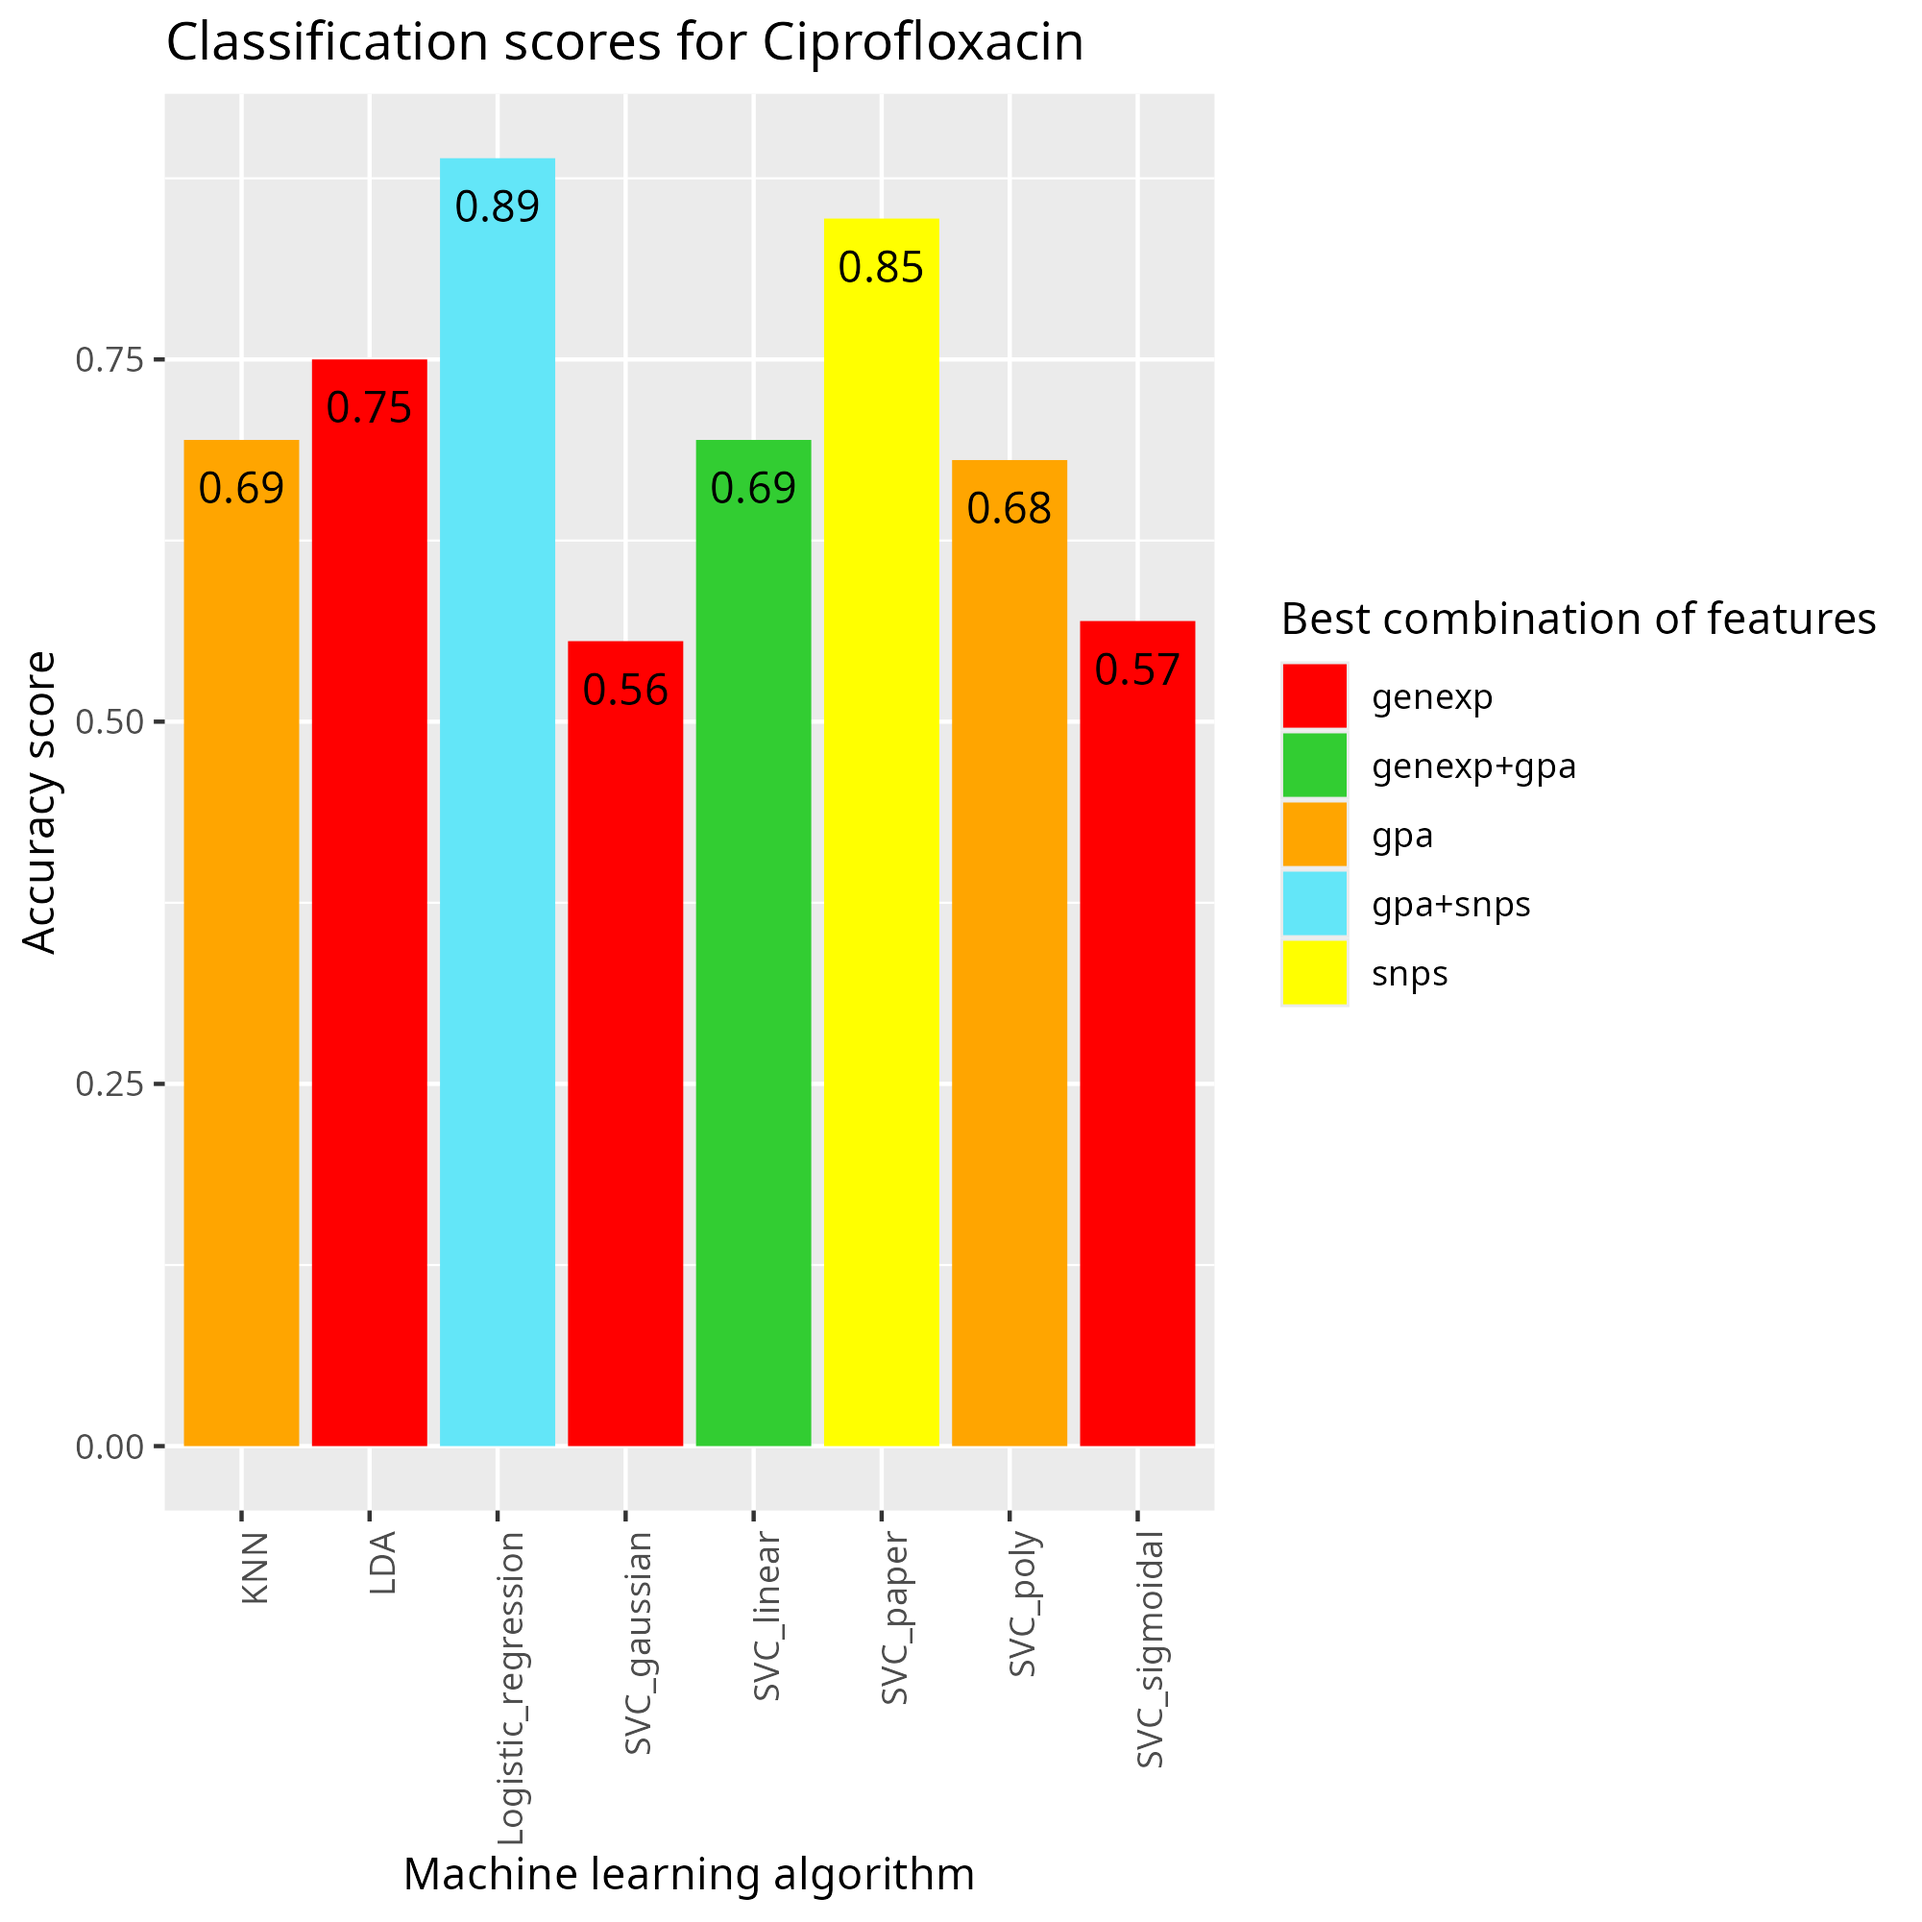
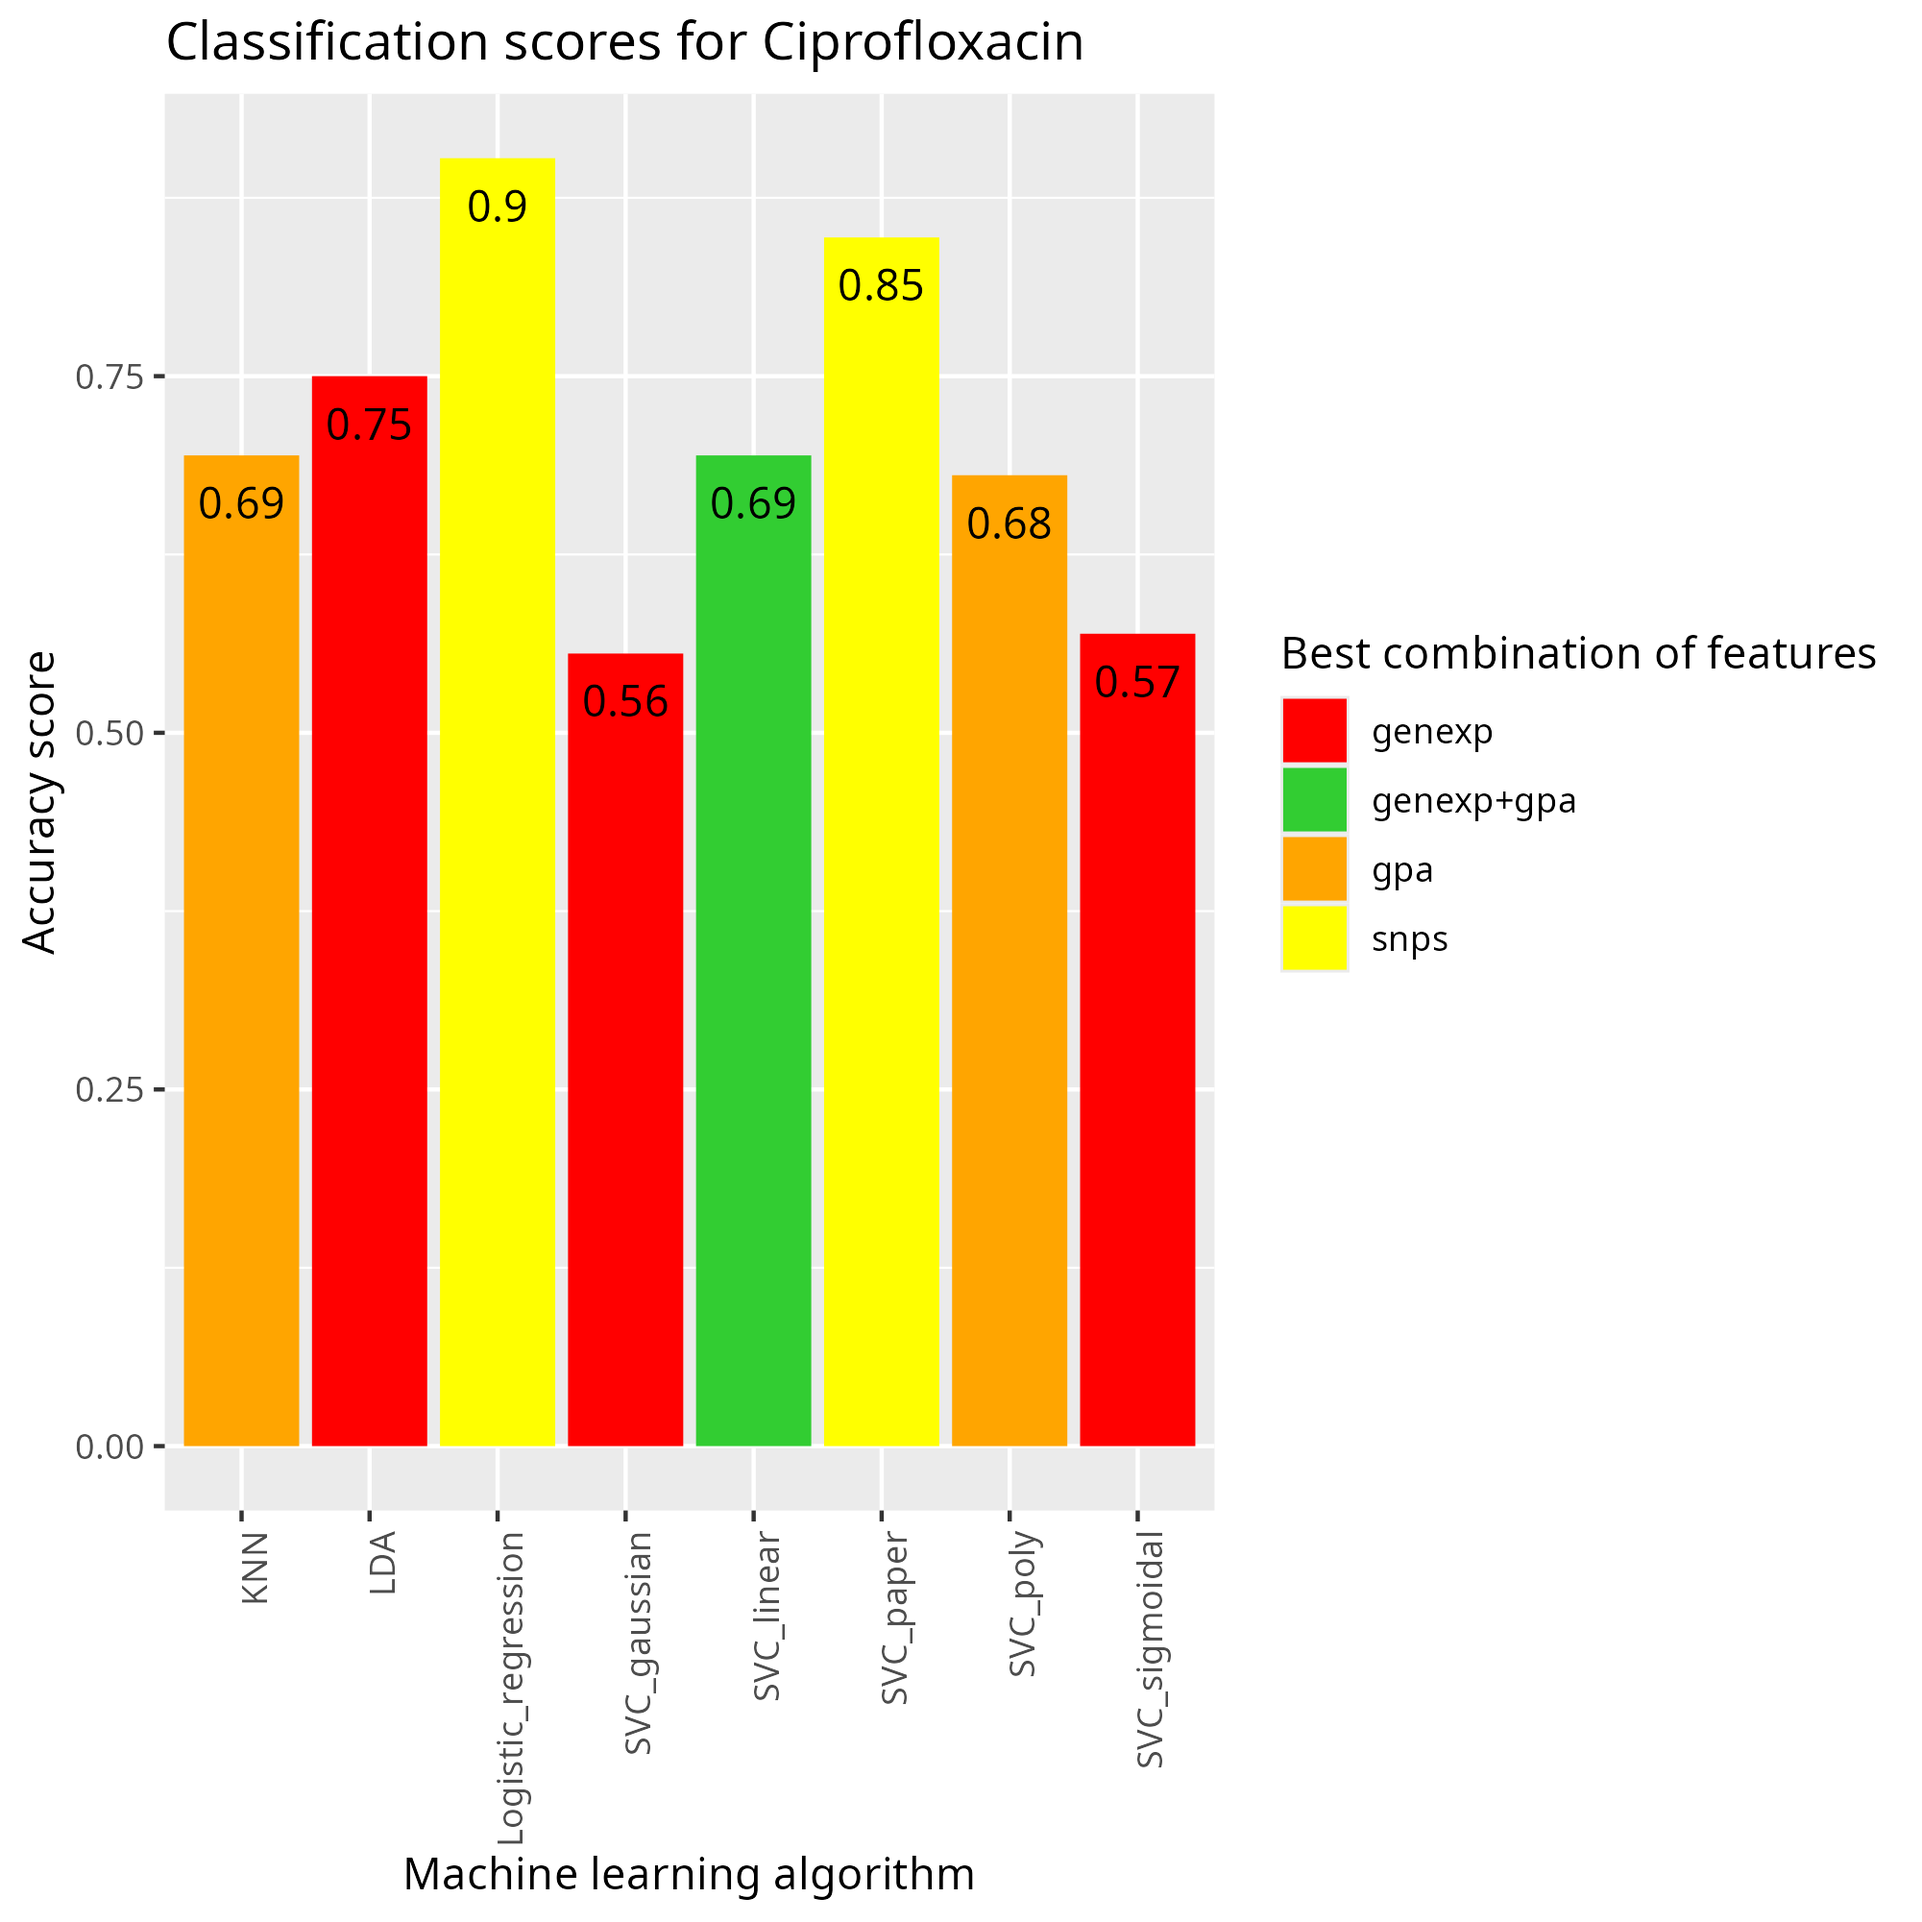
Corrected logistic regression and figure 4

diff --git a/pipelines/ml_algorithms.py b/pipelines/ml_algorithms.py
@@ -276,24 +276,24 @@ def get_logistic_regression_coefficients():
 
 
 if(__name__ == '__main__'):
-    #cross_validate_model(model_name = 'log_reg', C = 0.1, l1_ratio = 1.0, tol = 1e-6, solver = 'liblinear')
+    #cross_validate_model(model_name = 'log_reg', C = 0.1, l1_ratio = 1.0, tol = 1e-6, solver = 'liblinear', class_weight = 'balanced')
     #l1 ratio = 1 is the Lasso regularization
     #cross_validate_model(model_name = 'lda', solver = 'svd')
-    #cross_validate_model(model_name = 'knn', n_neighbors = 5, weights = 'distance')
+    cross_validate_model(model_name = 'knn', n_neighbors = 5)
     #cross_validate_model(model_name = 'svc', C = 0.1, kernel = 'linear', tol = 1e-6, class_weight = 'balanced')
     #cross_validate_model(model_name = 'svc', C = 0.1, kernel = 'poly', tol = 1e-6, gamma = 1., degree = 3, class_weight = 'balanced')
     #cross_validate_model(model_name = 'svm_paper', penalty = 'l1', loss = 'squared_hinge', max_iter = 1000000, tol = 0.000001,
      #                  class_weight = "balanced", dual = False, C = 0.1)
     #cross_validate_model(model_name = 'svc', C = 0.1, kernel = 'rbf', tol = 1e-6, class_weight = 'balanced', gamma = 1.)
     #cross_validate_model(model_name = 'svc', C = 0.1, kernel = 'sigmoid', tol = 1e-6, class_weight = 'balanced', gamma = 1.)
-    model_performance_test(model_name = 'log_reg', C = 0.1, l1_ratio = 1.0, tol = 1e-6, solver = 'liblinear', class_weight = 'balanced')
+    #model_performance_test(model_name = 'log_reg', C = 0.1, l1_ratio = 1.0, tol = 1e-6, solver = 'liblinear', class_weight = 'balanced')
     #model_performance_test(model_name = 'lda', solver = 'svd')
     #model_performance_test(model_name = 'lda', solver = 'svd')
-    #model_performance_test(model_name = 'knn', n_neighbors = 5)
-    model_performance_test(model_name = 'svc', C = 0.1, kernel = 'linear', tol = 1e-6, class_weight = 'balanced')
-    model_performance_test(model_name = 'svc', C = 0.1, kernel = 'poly', tol = 1e-6, gamma = 1., degree = 3, class_weight = 'balanced')
-    model_performance_test(model_name = 'svm_paper', penalty = 'l1', loss = 'squared_hinge', max_iter = 1000000, tol = 0.000001,
-                            class_weight = "balanced", dual = False, C = 0.1)
+    model_performance_test(model_name = 'knn', n_neighbors = 5)
+    #model_performance_test(model_name = 'svc', C = 0.1, kernel = 'linear', tol = 1e-6, class_weight = 'balanced')
+    #model_performance_test(model_name = 'svc', C = 0.1, kernel = 'poly', tol = 1e-6, gamma = 1., degree = 3, class_weight = 'balanced')
+    #model_performance_test(model_name = 'svm_paper', penalty = 'l1', loss = 'squared_hinge', max_iter = 1000000, tol = 0.000001,
+     #                       class_weight = "balanced", dual = False, C = 0.1)
     #model_performance_test(model_name = 'svc', C = 0.1, kernel = 'rbf', tol = 1e-6, class_weight = 'balanced', gamma = 1.)
     #model_performance_test(model_name = 'svc', C = 0.1, kernel = 'sigmoid', tol = 1e-6, class_weight = 'balanced', gamma = 1.)
     #get_logistic_regression_coefficients()
